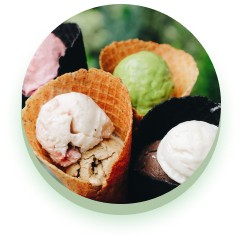
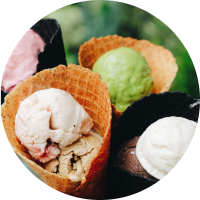
update img and styles

diff --git a/src/sass/layout/_product.scss b/src/sass/layout/_product.scss
@@ -105,8 +105,16 @@
 
   &:before {
     content: '';
-    width: 240px;
-    height: 240px;
+    width: 200px;
+    height: 200px;
+    border-radius: 50%;
+    background: linear-gradient(
+        0deg,
+        rgba(156, 190, 143, 0.7),
+        rgba(156, 190, 143, 0.7)
+      ),
+      #d9d9d9;
+    box-shadow: 0px 11px 5.34219px 0px rgba(10, 136, 23, 0.25);
     background-image: url(/src/images/product/ice_200M@1x.png);
     background-position: 50%;
     background-repeat: no-repeat;
@@ -114,19 +122,34 @@
     display: block;
     position: absolute;
     top: -110px;
-    left: 20px;
+    left: 40px;
 
     @media screen and (min-width: 768px) {
+      background: linear-gradient(
+          0deg,
+          rgba(156, 190, 143, 0.7),
+          rgba(156, 190, 143, 0.7)
+        ),
+        #d9d9d9;
+      box-shadow: 0px 12px 5.26027px 0px rgba(10, 136, 23, 0.25);
       background-image: url(/src/images/product/ice_200T@1x.png);
       top: -122px;
-      left: -8px;
+      left: 12px;
     }
     @media screen and (min-width: 1200px) {
-      width: 362px;
-      height: 362px;
+      width: 302px;
+      height: 302px;
+      background: linear-gradient(
+          0deg,
+          rgba(156, 190, 143, 0.7),
+          rgba(156, 190, 143, 0.7)
+        ),
+        #d9d9d9;
+      box-shadow: 0px 16px 8px 0px rgba(10, 136, 23, 0.25);
+      border-radius: 50%;
       background-image: url(/src/images/product/ice_302D@1x.png);
       top: -188px;
-      left: 4px;
+      left: 34px;
     }
   }
 }
@@ -142,8 +165,16 @@
   border-radius: 24px;
   &:before {
     content: '';
-    width: 240px;
-    height: 240px;
+    width: 200px;
+    height: 200px;
+    border-radius: 50%;
+    background: linear-gradient(
+        0deg,
+        rgba(248, 210, 78, 0.7),
+        rgba(248, 210, 78, 0.7)
+      ),
+      #d9d9d9;
+    box-shadow: 0px 11px 5.40397px 0px rgba(153, 114, 23, 0.25);
     background-image: url(/src/images/product/coffee_200M@1x-2.png);
     background-position: 50%;
     background-repeat: no-repeat;
@@ -151,19 +182,33 @@
     display: block;
     position: absolute;
     top: -110px;
-    left: 20px;
+    left: 40px;
 
     @media screen and (min-width: 768px) {
+      background: linear-gradient(
+          0deg,
+          rgba(248, 210, 78, 0.7),
+          rgba(248, 210, 78, 0.7)
+        ),
+        #d9d9d9;
+      box-shadow: 0px 12px 5.26027px 0px rgba(153, 114, 23, 0.25);
       background-image: url(/src/images/product/coffee_200T@1x-2.png);
       top: -122px;
-      left: -8px;
+      left: 12px;
     }
     @media screen and (min-width: 1200px) {
-      width: 362px;
-      height: 362px;
+      width: 302px;
+      height: 302px;
+      background: linear-gradient(
+          0deg,
+          rgba(248, 210, 78, 0.7),
+          rgba(248, 210, 78, 0.7)
+        ),
+        #d9d9d9;
+      box-shadow: 0px 16px 8px 0px rgba(153, 114, 23, 0.25);
       background-image: url(/src/images/product/coffee_302D@1x.png);
       top: -188px;
-      left: 4px;
+      left: 34px;
     }
   }
 }
@@ -184,8 +229,16 @@
 
   &:before {
     content: '';
-    width: 240px;
-    height: 240px;
+    width: 200px;
+    height: 200px;
+    border-radius: 50%;
+    background: linear-gradient(
+        0deg,
+        rgba(213, 117, 63, 0.7),
+        rgba(213, 117, 63, 0.7)
+      ),
+      #d9d9d9;
+    box-shadow: 0px 11px 5.41333px 0px rgba(0, 0, 0, 0.25);
     background-image: url(/src/images/product/milkshakes_200M@1x-1.png);
     background-position: 50%;
     background-repeat: no-repeat;
@@ -194,16 +247,30 @@
     position: absolute;
 
     @media screen and (min-width: 768px) {
+      background: linear-gradient(
+          0deg,
+          rgba(213, 117, 63, 0.7),
+          rgba(213, 117, 63, 0.7)
+        ),
+        #d9d9d9;
+      box-shadow: 0px 12px 5.26027px 0px rgba(0, 0, 0, 0.25);
       background-image: url(/src/images/product/milkshakes_200T@1x-1.png);
       top: -122px;
-      left: -8px;
+      left: 12px;
     }
     @media screen and (min-width: 1200px) {
-      width: 362px;
-      height: 362px;
+      width: 302px;
+      height: 302px;
+      background: linear-gradient(
+          0deg,
+          rgba(213, 117, 63, 0.7),
+          rgba(213, 117, 63, 0.7)
+        ),
+        #d9d9d9;
+      box-shadow: 0px 16px 8px 0px rgba(0, 0, 0, 0.25);
       background-image: url(/src/images/product/milkshakes_302D@1x.png);
       top: -188px;
-      left: 4px;
+      left: 34px;
     }
   }
 }

diff --git a/src/partials/product.html b/src/partials/product.html
@@ -9,7 +9,11 @@
           Soft ice cream with a delicate taste. Made with milk, cream, sugar and
           natural stabilizer
         </p>
-        <button type="button" class="products__button" data-modal__open--product-cream>
+        <button
+          type="button"
+          class="products__button"
+          data-modal__open--product-cream
+        >
           <svg class="products__icon" width="40" height="16">
             <use href="/src/images/icons.svg#icon-arrow-long"></use>
           </svg>
@@ -24,7 +28,11 @@
           without the use of preservatives and flavor enhancers
         </p>
 
-        <button type="button" class="products__button" data-modal__open--product-cream>
+        <button
+          type="button"
+          class="products__button"
+          data-modal__open--product-cream
+        >
           <svg class="products__icon" width="40" height="16">
             <use href="/src/images/icons.svg#icon-arrow-long"></use>
           </svg>
@@ -39,7 +47,11 @@
           fruits, berries and other sweets of your choice
         </p>
 
-        <button type="button" class="products__button" data-modal__open--product-cream>
+        <button
+          type="button"
+          class="products__button"
+          data-modal__open--product-cream
+        >
           <svg class="products__icon" width="40" height="16">
             <use href="/src/images/icons.svg#icon-arrow-long"></use>
           </svg>
